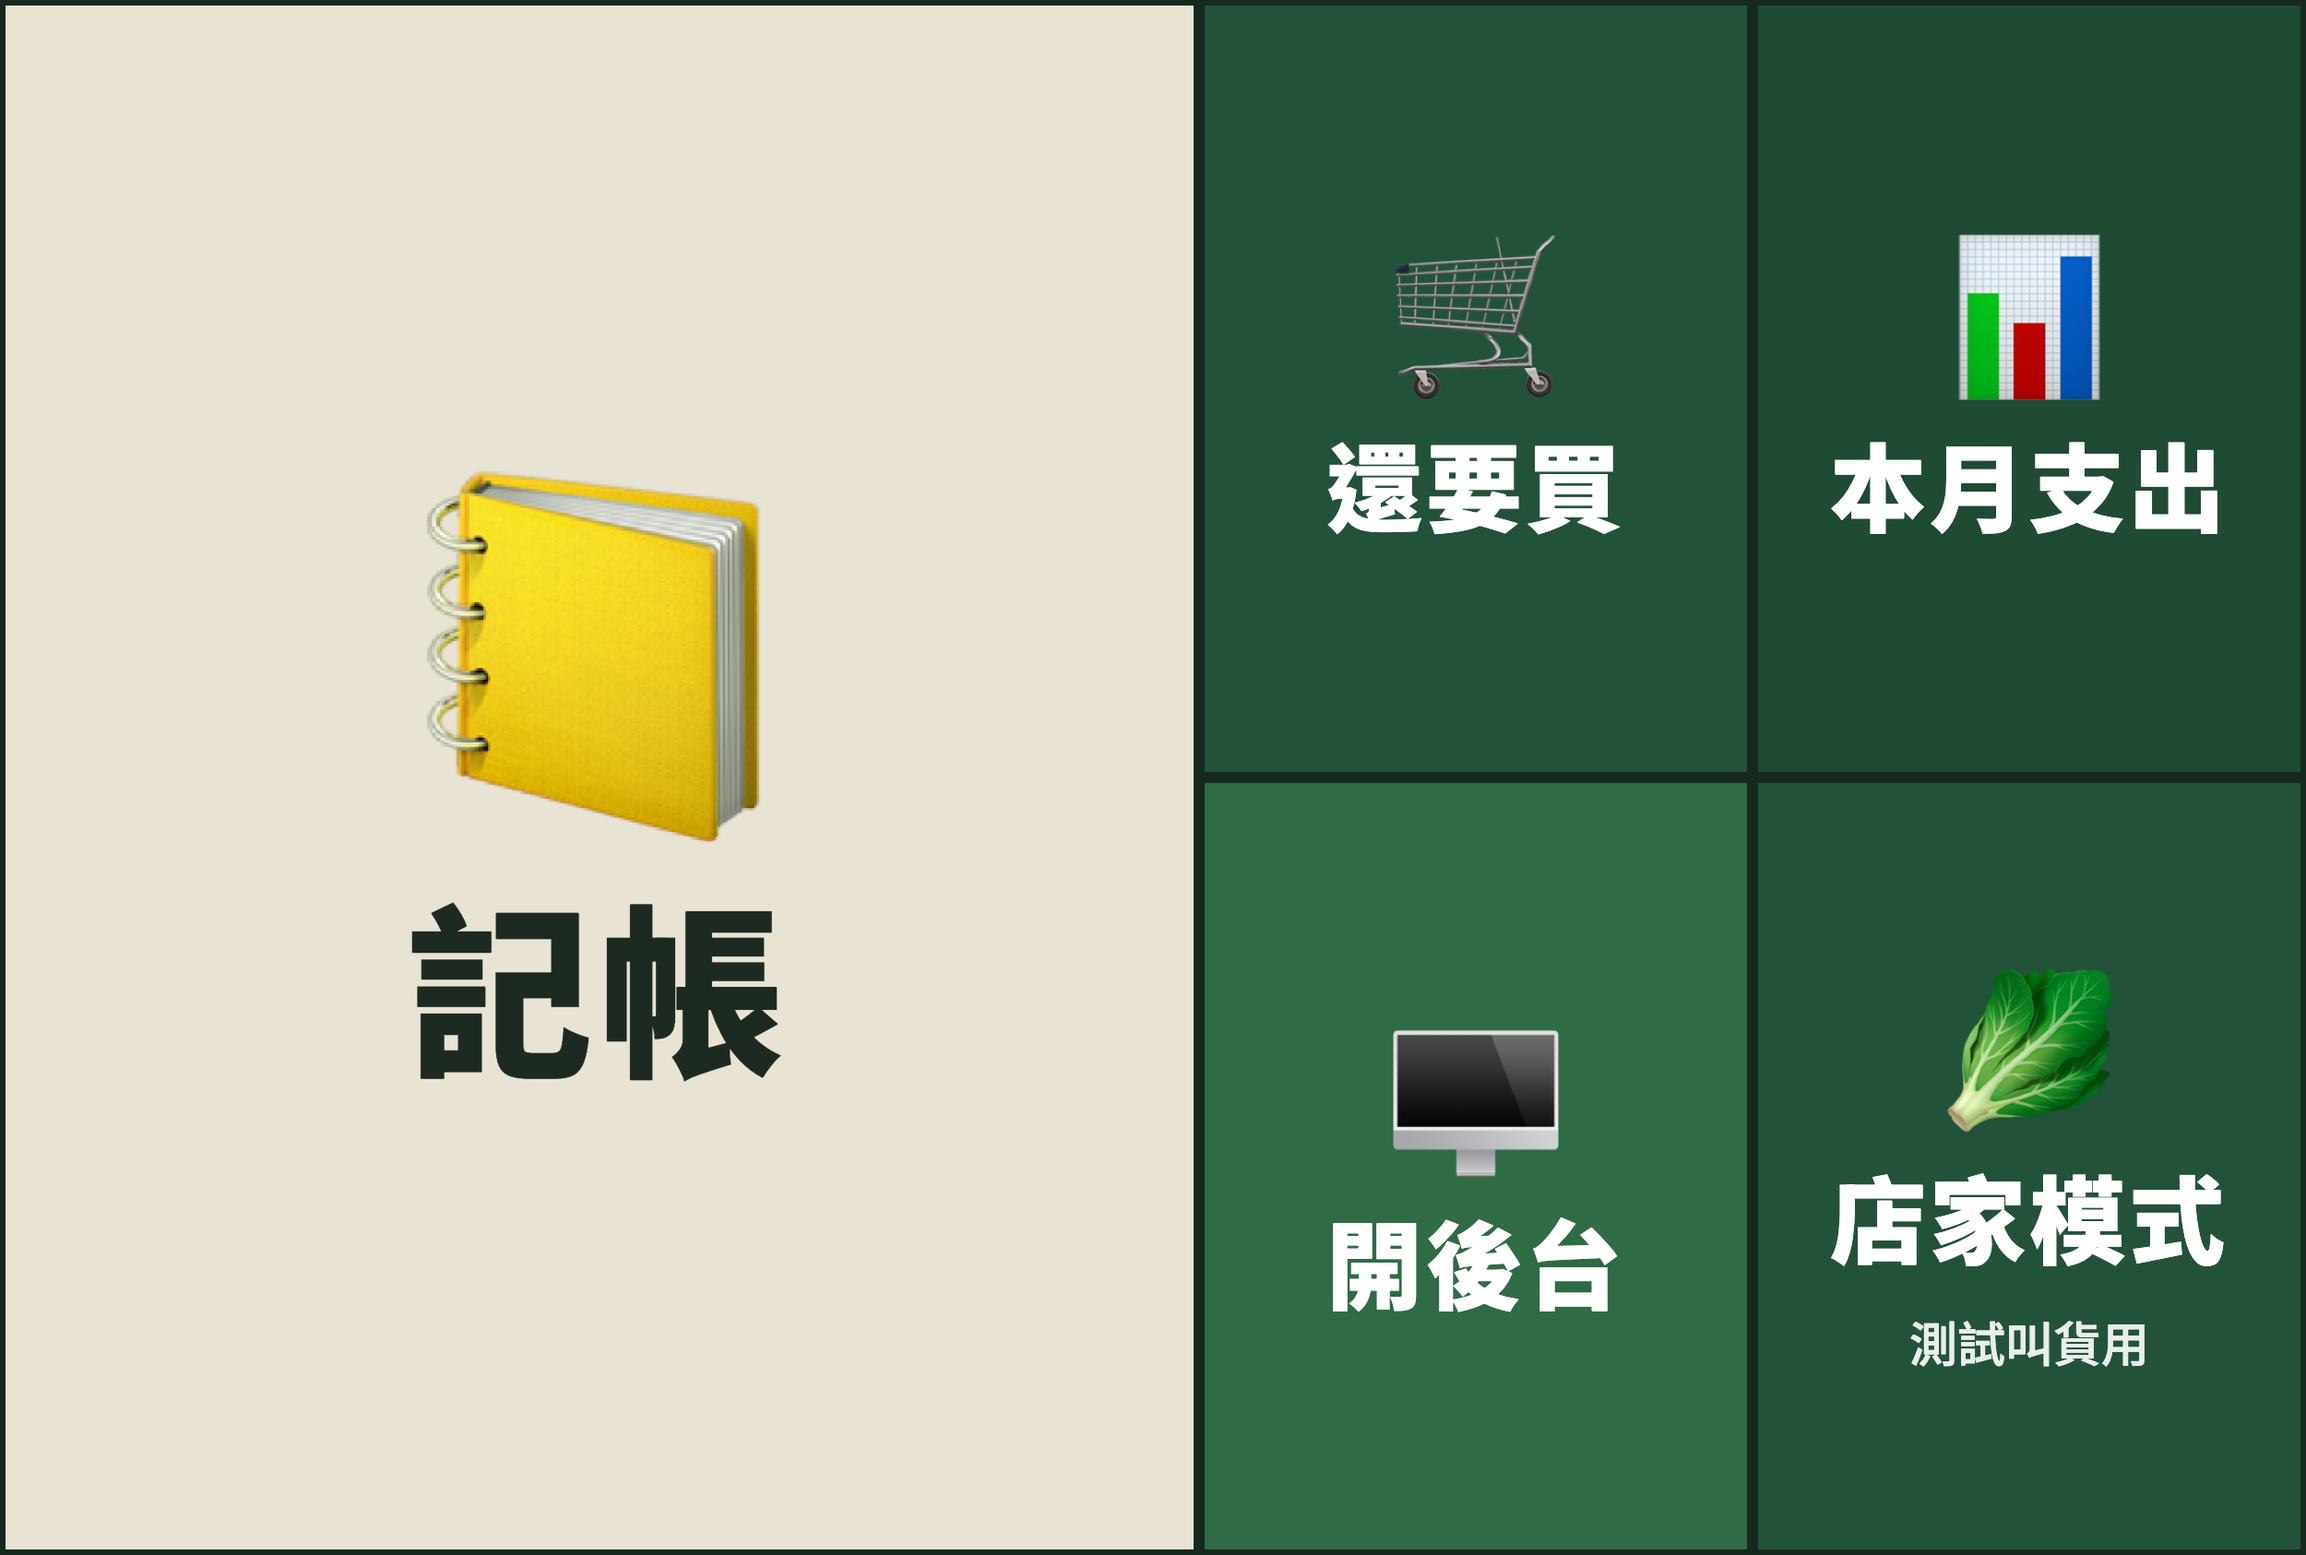
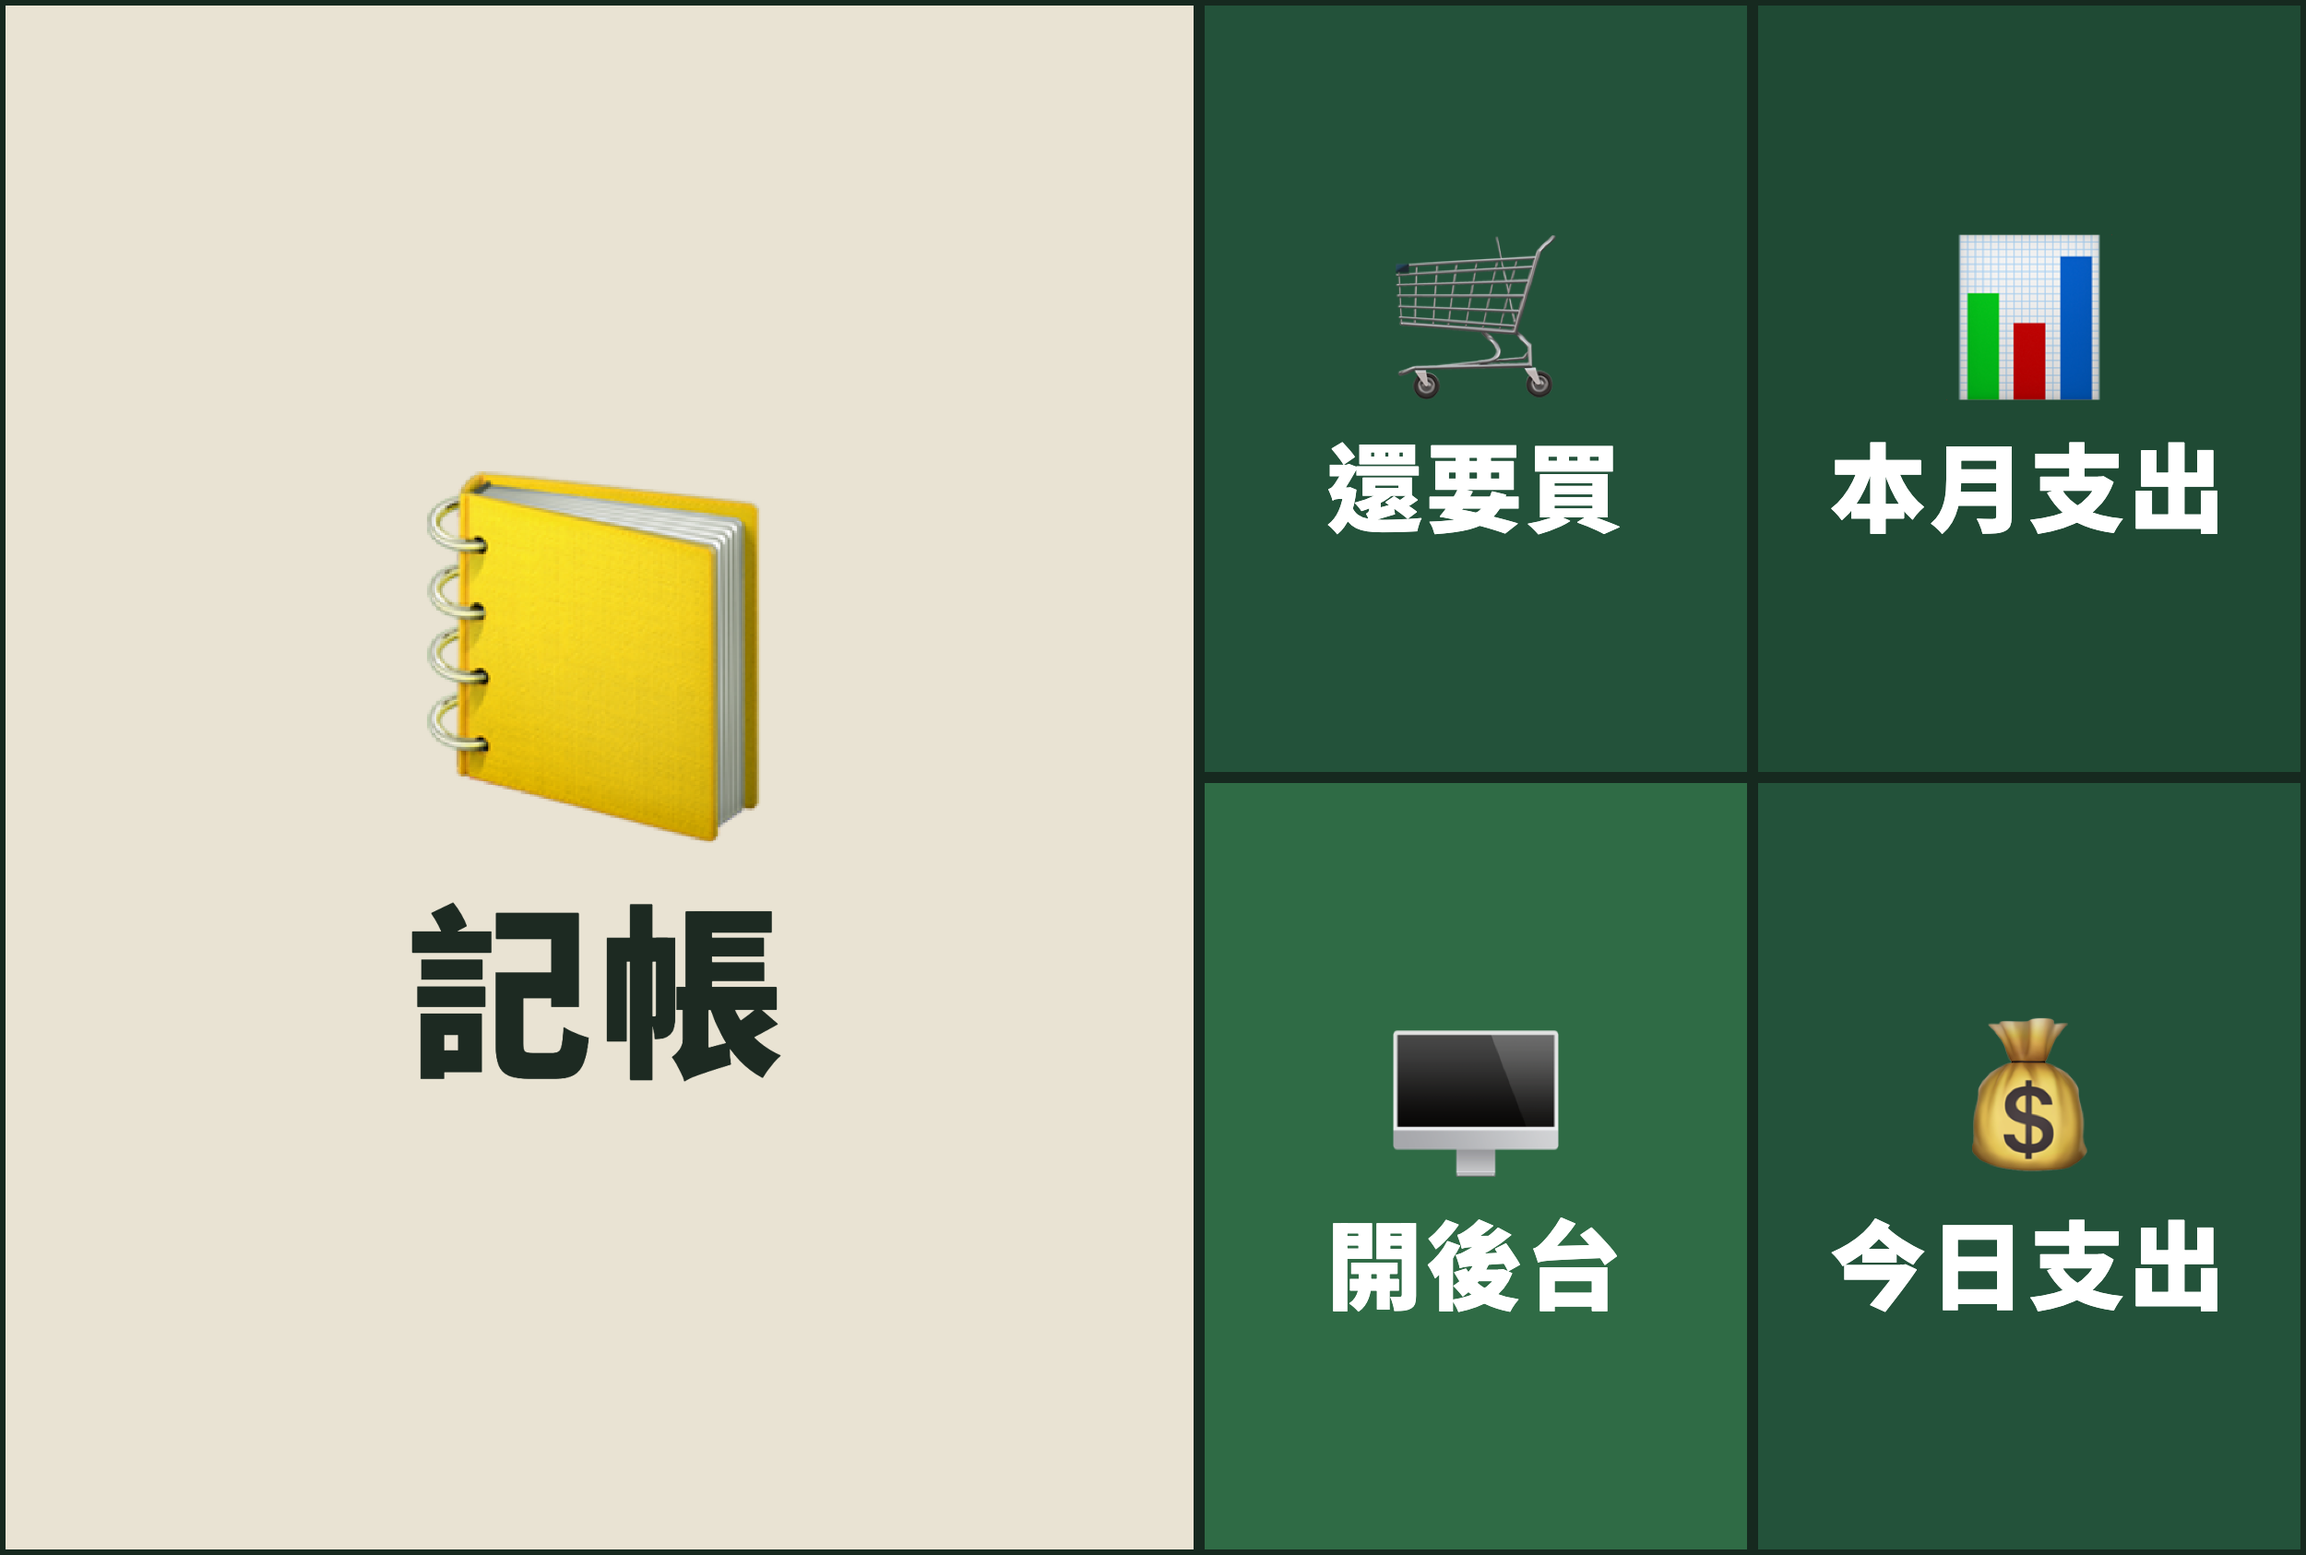
老闆選單：「店家模式」換成「今日支出」（測試叫貨改打「店家選單」）

Changed region(s): [[0.78, 0.6168, 0.9672, 0.8944]]

diff --git a/public/manual.html b/public/manual.html
@@ -486,7 +486,7 @@ details>div p+p{margin-top:8px}
     <ul>
       <li>每個月的營收、進貨成本、毛利、淨利、出貨重量。沒填進價的營收會提醒你，毛利會偏高。</li>
       <li><b>記帳（支出）</b>：填日期、買了什麼、金額按「記一筆」，分類選「自動分類」就會照關鍵字分好。記的支出會算進當天的其他成本和淨利。</li>
-      <li><b>用 LINE 記帳</b>（只有老闆的 LINE 可以）：直接打「油錢 500」「昨天 紙箱 800」「10/28 進貨 12000 @大成」，@ 後面是付給誰。回覆下面可以「取消這筆」或改分類，改過一次，下次打一樣的字就會自動分對。打「今天支出」「本月支出」「上個月支出」可以查帳，打「還要買」看還有哪些菜沒買齊。老闆的 LINE 會看到「老闆選單」（記帳、今天支出、本月支出、開後台、店家模式），店家看不到。按「還要買」看採買進度；按「店家模式」可以切到店家選單測試叫貨，這時候記帳要在前面加「記帳」；打「老闆選單」切回來。</li>
+      <li><b>用 LINE 記帳</b>（只有老闆的 LINE 可以）：直接打「油錢 500」「昨天 紙箱 800」「10/28 進貨 12000 @大成」，@ 後面是付給誰。回覆下面可以「取消這筆」或改分類，改過一次，下次打一樣的字就會自動分對。打「今天支出」「本月支出」「上個月支出」可以查帳，打「還要買」看還有哪些菜沒買齊。老闆的 LINE 會看到「老闆選單」（記帳、今天支出、本月支出、開後台、店家模式），店家看不到。按「還要買」看採買進度、「今日支出」「本月支出」查帳。要測試叫貨就打「店家選單」切到店家選單，這時候記帳要在前面加「記帳」；打「老闆選單」切回來。</li>
       <li><b>進貨的分類跟品項分類一樣</b>（例如葉菜類、瓜果豆類…），品名會自動分類：打「高麗菜 1500」就記進葉菜類。LINE 按「記帳」會先跳出分類按鈕，點一個再打金額也可以。</li>
       <li>進貨的錢怎麼算：那天有在「單價」頁填進價，進貨成本就用進價算，記帳的進貨只列出來、不重複扣；那天沒填進價，就用記帳的進貨當進貨成本。</li>
       <li>「分類與關鍵字」可以新增其他支出的分類、加關鍵字（進貨的分類要到「品項」頁改）。認不出來的都會放「雜支」。「匯出 Excel」會多一張記帳明細。</li>

diff --git a/scripts/richmenu/menu.html b/scripts/richmenu/menu.html
@@ -27,7 +27,7 @@ document.body.innerHTML = boss ? `
 <div class="c a"><div class="ic">🛒</div><div class="t">還要買</div></div>
 <div class="c b"><div class="ic">📊</div><div class="t">本月支出</div></div>
 <div class="c d"><div class="ic">🖥</div><div class="t">開後台</div></div>
-<div class="c a"><div class="ic">${icon}</div><div class="t">店家模式</div><div class="s">測試叫貨用</div></div>` : `
+<div class="c a"><div class="ic">💰</div><div class="t">今日支出</div></div>` : `
 <div class="c big"><div class="ic">${icon}</div><div class="t">我要叫貨</div><div class="s">直接打字或拍照就能叫</div></div>
 <div class="c wide"><div class="ic">📷</div><div class="t">拍照叫貨</div><div class="s">拍叫貨單，AI 幫你整理</div></div>
 <div class="c a"><div class="ic">📋</div><div class="t">我的訂單</div></div>

diff --git a/public/admin.html b/public/admin.html
@@ -584,7 +584,7 @@ input[type=checkbox],input[type=radio]{accent-color:var(--leaf)}
   </section>
 
   <section id="users" hidden>
-    <div class="mebox"><span id="meInfo"></span><small class="ver">版本 102920</small></div>
+    <div class="mebox"><span id="meInfo"></span><small class="ver">版本 102922</small></div>
     <a class="manual" href="/manual" onclick="event.preventDefault();$('helpBtn').click()"><b>📖 使用說明書</b></a>
     <div class="sgrps">
     <div id="rulesBox">

diff --git a/README.md b/README.md
@@ -72,7 +72,7 @@ firebase deploy
 1. **LINE Developers** → Messaging API：Webhook URL 填 `https://garlic-wholesale.web.app/api/webhook`，按 Verify，再打開 **Use webhook**。
 2. **官方帳號管理後台** → 回應設定：「聊天」打開、「Webhook」打開、「自動回應訊息」關掉。
 3. 用你自己的 LINE 傳「我的ID」給機器人，把回覆的 userId 填到 `functions/.env` 的 `ADMIN_LINE_USER_IDS`，再跑一次 `firebase deploy --only functions`。之後有店家申請開通時，你會收到通知。
-4. **圖文選單**：`node scripts/richmenu/render.mjs veg` 產生圖片，再 `LINE_CHANNEL_ACCESS_TOKEN=… node scripts/richmenu/setup.mjs <專案>` 建立。店家選單（我要叫貨、拍照叫貨、我的訂單、聯絡老闆）是所有人預設；老闆選單（記帳、今天支出、本月支出、開後台、店家模式）只套用在 ADMIN_LINE_USER_IDS，打「老闆選單」切回來。
+4. **圖文選單**：`node scripts/richmenu/render.mjs veg` 產生圖片，再 `LINE_CHANNEL_ACCESS_TOKEN=… node scripts/richmenu/setup.mjs <專案>` 建立。店家選單（我要叫貨、拍照叫貨、我的訂單、聯絡老闆）是所有人預設；老闆選單（記帳、還要買、本月支出、開後台、今日支出）只套用在 ADMIN_LINE_USER_IDS；打「店家選單」「老闆選單」切換。
 
 ## 資料保存與備份
 
